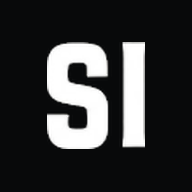
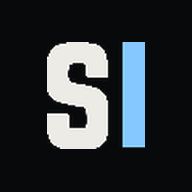
Add files via upload

Changed region(s): [[0.2188, 0.2188, 0.5625, 0.7812], [0.625, 0.2188, 0.7812, 0.7812]]

diff --git a/index.html b/index.html
@@ -25,7 +25,7 @@
   body.day{--ink:#F2F0EA;--graphite:#E2DFD6;--graphite-2:#D0CCC1;--chalk:#0A0B0C;--label:#1F6FB2;--grey:#4A4F55}
   .screen{position:fixed;inset:0;display:none;flex-direction:column;
     padding:env(safe-area-inset-top) env(safe-area-inset-right)
-            calc(0.25in + env(safe-area-inset-bottom)) env(safe-area-inset-left)}
+            calc(0.30in + env(safe-area-inset-bottom)) env(safe-area-inset-left)}
   .screen.on{display:flex}
 
   .strip{display:flex;align-items:center;gap:8px;padding:9px var(--pad) 0;
@@ -45,7 +45,7 @@
   .wordmark{text-align:center;padding-bottom:0.25in;line-height:0}
   .wordmark img{height:clamp(52px,17vw,92px);width:auto;max-width:92%;
     object-fit:contain;display:inline-block}
-  body.day .wordmark img{filter:invert(1)}
+  body.day .wordmark img{filter:brightness(.45) saturate(1.3)}
 
   .readout{display:flex;align-items:flex-end;justify-content:center;gap:10px;line-height:.78}
   #speed{font-family:var(--display);font-weight:700;letter-spacing:-.03em;
@@ -55,7 +55,7 @@
 
   /* segmented bar graph: reads in peripheral vision, and only changed segments repaint */
   .rail{position:relative;margin:16px 2px 0;padding-top:9px}
-  .segs{display:flex;gap:2px;height:26px}
+  .segs{display:flex;gap:2px;align-items:flex-end}
   .segs i{flex:1;background:var(--graphite-2);position:relative}
   .segs i.on{background:var(--amber)}
   .segs i.q::before{content:"";position:absolute;left:-1.5px;top:-8px;width:1px;height:6px;background:var(--label)}
@@ -91,7 +91,7 @@
   /* glove and bump proofing */
   #shield{position:fixed;inset:0;z-index:30;display:none;background:transparent}
   body.locked #shield{display:block}
-  #lockmsg{position:fixed;left:0;right:0;bottom:calc(0.25in + env(safe-area-inset-bottom));padding:14px;text-align:center;background:var(--graphite);
+  #lockmsg{position:fixed;left:0;right:0;bottom:calc(0.30in + env(safe-area-inset-bottom));padding:14px;text-align:center;background:var(--graphite);
     color:var(--label);font-size:14px;letter-spacing:.18em;text-transform:uppercase;z-index:31;display:none}
   body.locked #lockmsg{display:block}
 
@@ -99,7 +99,6 @@
   @media (max-height:660px){
     .wordmark{padding-bottom:0.15in}
     .wordmark img{height:clamp(40px,12vw,58px)}
-    .segs{height:20px}
     .btn{min-height:64px}
     .cell{padding:8px var(--pad)}
   }
@@ -144,10 +143,10 @@
   input[type=text],select{background:var(--graphite);color:var(--chalk);border:1px solid var(--graphite-2);
     padding:12px;font:inherit;font-size:16px;border-radius:0;width:100%}
   .sheet{position:fixed;inset:0;background:var(--ink);display:none;flex-direction:column;z-index:20;
-    padding:env(safe-area-inset-top) 0 calc(0.25in + env(safe-area-inset-bottom))}
+    padding:env(safe-area-inset-top) 0 calc(0.30in + env(safe-area-inset-bottom))}
   .sheet.on{display:flex}
   .sum{display:grid;grid-template-columns:1fr 1fr;gap:1px;background:var(--graphite-2);margin:var(--pad)}
-  .toast{position:fixed;left:50%;bottom:calc(100px + 0.25in);transform:translateX(-50%);background:var(--graphite-2);
+  .toast{position:fixed;left:50%;bottom:calc(100px + 0.30in);transform:translateX(-50%);background:var(--graphite-2);
     color:var(--chalk);padding:11px 16px;font-size:13px;z-index:40;opacity:0;pointer-events:none;transition:opacity .2s}
   .toast.on{opacity:1}
   .warn{margin:10px var(--pad) 0;padding:11px 13px;border-left:2px solid var(--amber);
@@ -173,7 +172,7 @@
 
   <div class="mainrow">
     <div class="cola">
[2 lines of base64/hex data omitted]
       <div class="readout"><div id="speed">0.0</div><div class="unit" id="unit">km/h</div></div>
       <div class="rail">
         <div class="segs" id="segs"></div><div id="peak"></div>
@@ -323,6 +322,11 @@ function drawRail(){
     }
     segEls=box.children;
   }
+  // wedge: same height as before at 0, roughly double at full scale
+  var short = window.matchMedia('(max-height:660px)').matches;
+  var h0 = short?18:26, h1 = short?34:50;
+  box.style.height = h1+'px';
+  for(var k=0;k<SEGN;k++) segEls[k].style.height = Math.round(h0+(h1-h0)*(k/(SEGN-1)))+'px';
   var f=U.spd, sc=cfg.scale;
   put($('rt0'),'0');
   put($('rt1'),String(Math.round(sc*0.25*f)));

diff --git a/sw.js b/sw.js
@@ -1,6 +1,6 @@
 /* Rail service worker — cache-first app shell.
    Bump CACHE when you change any file, or phones keep serving the old version. */
-const CACHE = 'si-v16';
+const CACHE = 'si-v20';
 const FILES = [
   './',
   './index.html',
